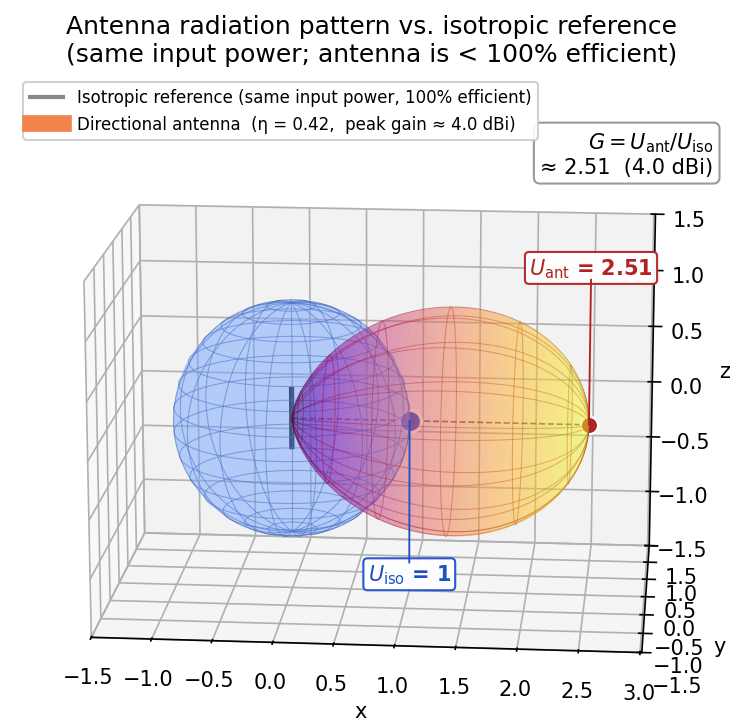
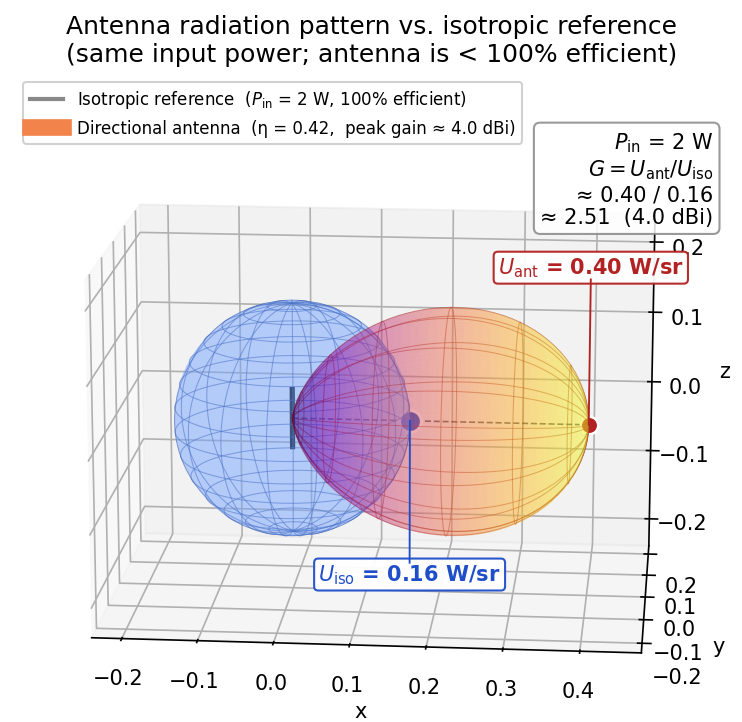
Add realistic W/sr units and 2W input power to antenna gain example.

diff --git a/src/content/pages/electronics/components/antennas/_assets/main.py b/src/content/pages/electronics/components/antennas/_assets/main.py
@@ -39,9 +39,13 @@ SCRIPT_DIR = Path(__file__).resolve().parent
 TARGET_GAIN_DBI = 4.0  # desired peak gain (sets the antenna efficiency)
 N = 2                  # cos^n(theta) shape parameter (higher = narrower lobe)
 RES = 121              # mesh resolution per axis
+P_INPUT_W = 2.0        # antenna input power (W) — sets the absolute W/sr scale
 
 # Efficiency derived from target gain. G = 2 * eta * (n + 1) so eta = G/(2(n+1)).
 ETA = (10 ** (TARGET_GAIN_DBI / 10)) / (2 * (N + 1))
+
+# Isotropic reference intensity for the chosen input power: U_iso = P_in / (4 pi).
+U_ISO = P_INPUT_W / (4.0 * np.pi)
 
 
 def directional_pattern(theta: np.ndarray, eta: float, n: int) -> np.ndarray:
@@ -87,18 +91,20 @@ def main():
     phi_1d = np.linspace(0, 2 * np.pi, RES)
     theta, phi = np.meshgrid(theta_1d, phi_1d, indexing="ij")
 
-    # Isotropic reference: unit sphere.
-    iso_r = np.ones_like(theta)
+    # Isotropic reference: a sphere of constant intensity U_iso.
+    iso_r = np.full_like(theta, U_ISO)
     iso_x, iso_y, iso_z = sph_to_cart(iso_r, theta, phi)
 
-    # Directional pattern, computed with the lobe along +z, then rotated 90°
-    # about the y-axis so the lobe points along +x (better aspect ratio for
-    # an inline figure).
-    dir_r = directional_pattern(theta, ETA, N)
+    # Directional pattern, computed with the lobe along +z (in normalized
+    # units where U_iso = 1), then scaled to W/sr and rotated 90° about the
+    # y-axis so the lobe points along +x (better aspect ratio for an inline
+    # figure).
+    dir_r = directional_pattern(theta, ETA, N) * U_ISO
     _x, _y, _z = sph_to_cart(dir_r, theta, phi)
     dir_x, dir_y, dir_z = _z, _y, -_x
 
-    peak_gain = dir_r.max()  # linear gain G
+    peak_intensity = dir_r.max()  # peak U_ant in W/sr
+    peak_gain = peak_intensity / U_ISO  # linear gain G
     gain_dbi = 10.0 * np.log10(peak_gain)
 
     # ----- Plot ---------------------------------------------------------------
@@ -119,42 +125,42 @@ def main():
         color="#2c4f9e", linewidth=0.5, alpha=0.6,
     )
 
-    # Reference line marking the +x axis up to peak gain — visualises the
-    # gain ratio (sphere radius = 1, peak lobe extends to G).
-    ax.plot([0, peak_gain], [0, 0], [0, 0], color="black",
+    # Reference line marking the +x axis up to peak intensity — visualises
+    # the gain ratio (sphere radius = U_iso, peak lobe extends to U_ant).
+    ax.plot([0, peak_intensity], [0, 0], [0, 0], color="black",
             linewidth=0.8, linestyle="--", alpha=0.6)
 
     # Mark the two intensities that define the gain equation:
     #   G = U_antenna(peak direction) / U_isotropic
-    # Numerator: lobe surface point along +x at radius = peak_gain.
-    # Denominator: isotropic surface point along +x at radius = 1 — this point
-    # sits *inside* the translucent lobe, so we make it extra prominent
+    # Numerator: lobe surface point along +x at radius = U_ant.
+    # Denominator: isotropic surface point along +x at radius = U_iso — this
+    # point sits *inside* the translucent lobe, so we make it extra prominent
     # (large size, white outline) and use a leader line out to a clear area.
-    ax.scatter(peak_gain, 0, 0, color="#b22222", s=70,  # type: ignore[arg-type]
+    ax.scatter(peak_intensity, 0, 0, color="#b22222", s=70,  # type: ignore[arg-type]
                edgecolors="white", linewidths=1.2, zorder=10)
-    ax.scatter(1.0, 0, 0, color="#1f4ec9", s=110,  # type: ignore[arg-type]
+    ax.scatter(U_ISO, 0, 0, color="#1f4ec9", s=110,  # type: ignore[arg-type]
                edgecolors="white", linewidths=1.5, zorder=20)
 
     # Leader line + label for U_iso, pulled out below the diagram so it is
     # readable despite the lobe surrounding the point.
-    iso_label_xyz = (1.0, 0.0, -1.25)
-    ax.plot([1, iso_label_xyz[0]], [0, iso_label_xyz[1]],
+    iso_label_xyz = (U_ISO, 0.0, -peak_intensity * 0.5)
+    ax.plot([U_ISO, iso_label_xyz[0]], [0, iso_label_xyz[1]],
             [0, iso_label_xyz[2]],
             color="#1f4ec9", linewidth=0.9, zorder=15)
     ax.text(*iso_label_xyz,
-            "$U_\\mathrm{iso}$ = 1",
+            f"$U_\\mathrm{{iso}}$ = {U_ISO:.2f} W/sr",
             color="#1f4ec9", fontsize=10, ha="center", va="top",
             fontweight="bold",
             bbox=dict(boxstyle="round,pad=0.2", facecolor="white",
                       edgecolor="#1f4ec9", alpha=0.95))
 
     # Leader line + boxed label for U_ant, matching U_iso's treatment.
-    ant_label_xyz = (peak_gain, 0.0, 1.25)
-    ax.plot([peak_gain, ant_label_xyz[0]], [0, ant_label_xyz[1]],
+    ant_label_xyz = (peak_intensity, 0.0, peak_intensity * 0.5)
+    ax.plot([peak_intensity, ant_label_xyz[0]], [0, ant_label_xyz[1]],
             [0, ant_label_xyz[2]],
             color="#b22222", linewidth=0.9, zorder=15)
     ax.text(*ant_label_xyz,
-            f"$U_\\mathrm{{ant}}$ = {peak_gain:.2f}",
+            f"$U_\\mathrm{{ant}}$ = {peak_intensity:.2f} W/sr",
             color="#b22222", fontsize=10, ha="center", va="bottom",
             fontweight="bold",
             bbox=dict(boxstyle="round,pad=0.2", facecolor="white",
@@ -163,7 +169,9 @@ def main():
     # collide with the 3D axis labels.
     ax.text2D(
         0.98, 0.92,
+        f"$P_\\mathrm{{in}}$ = {P_INPUT_W:.0f} W\n"
         f"$G = U_\\mathrm{{ant}} / U_\\mathrm{{iso}}$\n"
+        f"≈ {peak_intensity:.2f} / {U_ISO:.2f}\n"
         f"≈ {peak_gain:.2f}  ({gain_dbi:.1f} dBi)",
         transform=ax.transAxes,
         color="black", fontsize=10,
@@ -174,7 +182,7 @@ def main():
 
     # Directional lobe as a translucent colored surface plus a wireframe,
     # matching the isotropic sphere's treatment.
-    norm = Normalize(0.0, peak_gain)
+    norm = Normalize(0.0, peak_intensity)
     facecolors = PLASMA(norm(dir_r))
     facecolors[..., -1] = 0.30  # apply alpha to RGBA face colors
     ax.plot_surface(
@@ -190,13 +198,15 @@ def main():
     )
 
     # Antenna marker at the origin (a thin vertical bar along the lobe axis).
-    ax.plot([0, 0], [0, 0], [-0.25, 0.25], color="black", linewidth=2.5)
+    marker_h = peak_intensity * 0.10
+    ax.plot([0, 0], [0, 0], [-marker_h, marker_h], color="black",
+            linewidth=2.5)
 
     # Axes / framing. Lobe runs along +x, so give x a wide range and keep
     # y and z just large enough to fit the sphere and the lobe's transverse
     # extent — preserves the wide aspect ratio of the figure.
-    x_lo, x_hi = -1.5, peak_gain * 1.2
-    yz_lim = max(peak_gain * 0.45, 1.5)
+    x_lo, x_hi = -peak_intensity * 0.6, peak_intensity * 1.2
+    yz_lim = peak_intensity * 0.6
     ax.set_xlim(x_lo, x_hi)
     ax.set_ylim(-yz_lim, yz_lim)
     ax.set_zlim(-yz_lim, yz_lim)
@@ -208,7 +218,9 @@ def main():
 
     legend_elems = [
         Line2D([0], [0], color="#888888", lw=2,
-               label="Isotropic reference (same input power, 100% efficient)"),
+               label=(f"Isotropic reference  "
+                      f"($P_\\mathrm{{in}}$ = {P_INPUT_W:.0f} W, "
+                      f"100% efficient)")),
         Line2D([0], [0], color=PLASMA(0.7), lw=8,
                label=(f"Directional antenna  "
                       f"(η = {ETA:.2f},  peak gain ≈ {gain_dbi:.1f} dBi)")),